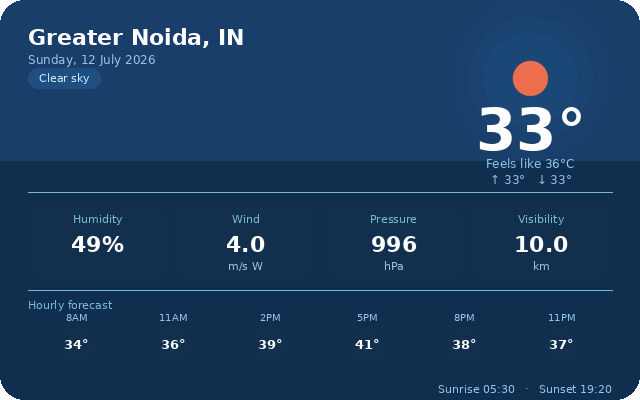
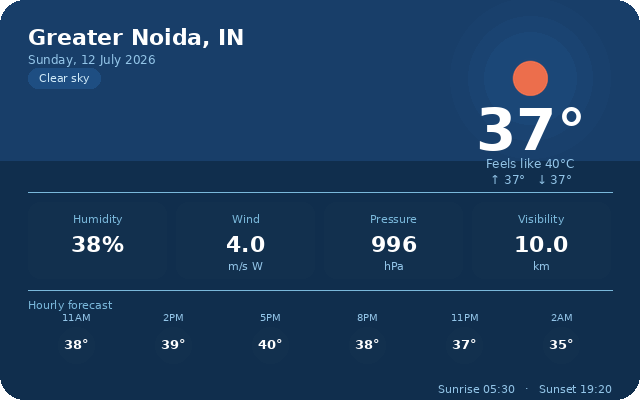
chore: auto-update README

diff --git a/README.md b/README.md
@@ -19,9 +19,9 @@ Building projects, automations, and experiments. This README refreshes itself wi
 ## Snapshot
 
 - Profile: [https://github.com/rtk-rnjn](https://github.com/rtk-rnjn)
-- Last update: 2026-07-12 01:57 UTC
-- Moon phase right now: 🌙 (94.57% through the lunar cycle)
-- Year progress (2026): 52.63% `█████████████░░░░░░░░░░░`
+- Last update: 2026-07-12 05:26 UTC
+- Moon phase right now: 🌙 (95.06% through the lunar cycle)
+- Year progress (2026): 52.66% `█████████████░░░░░░░░░░░`
 
 ## Weather Feed
 
@@ -31,7 +31,7 @@ Building projects, automations, and experiments. This README refreshes itself wi
 
 - City: Greater Noida
 - Condition: Clear sky
-- Temperature: 33.2 C
+- Temperature: 36.7 C
 </details>
 
 ## News Feed
